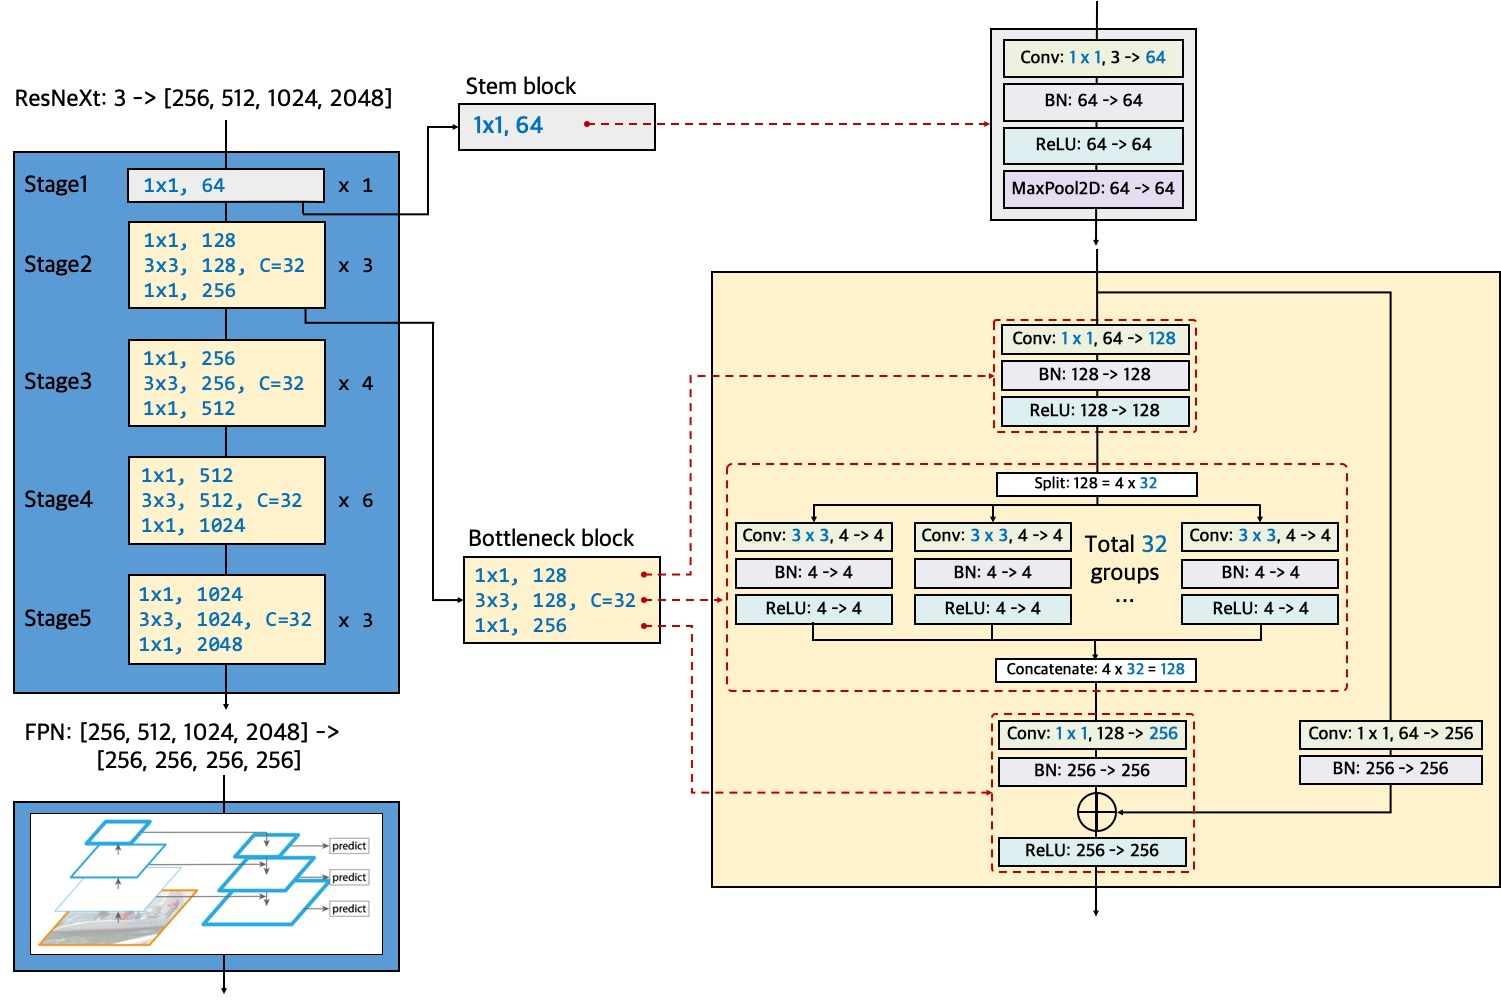
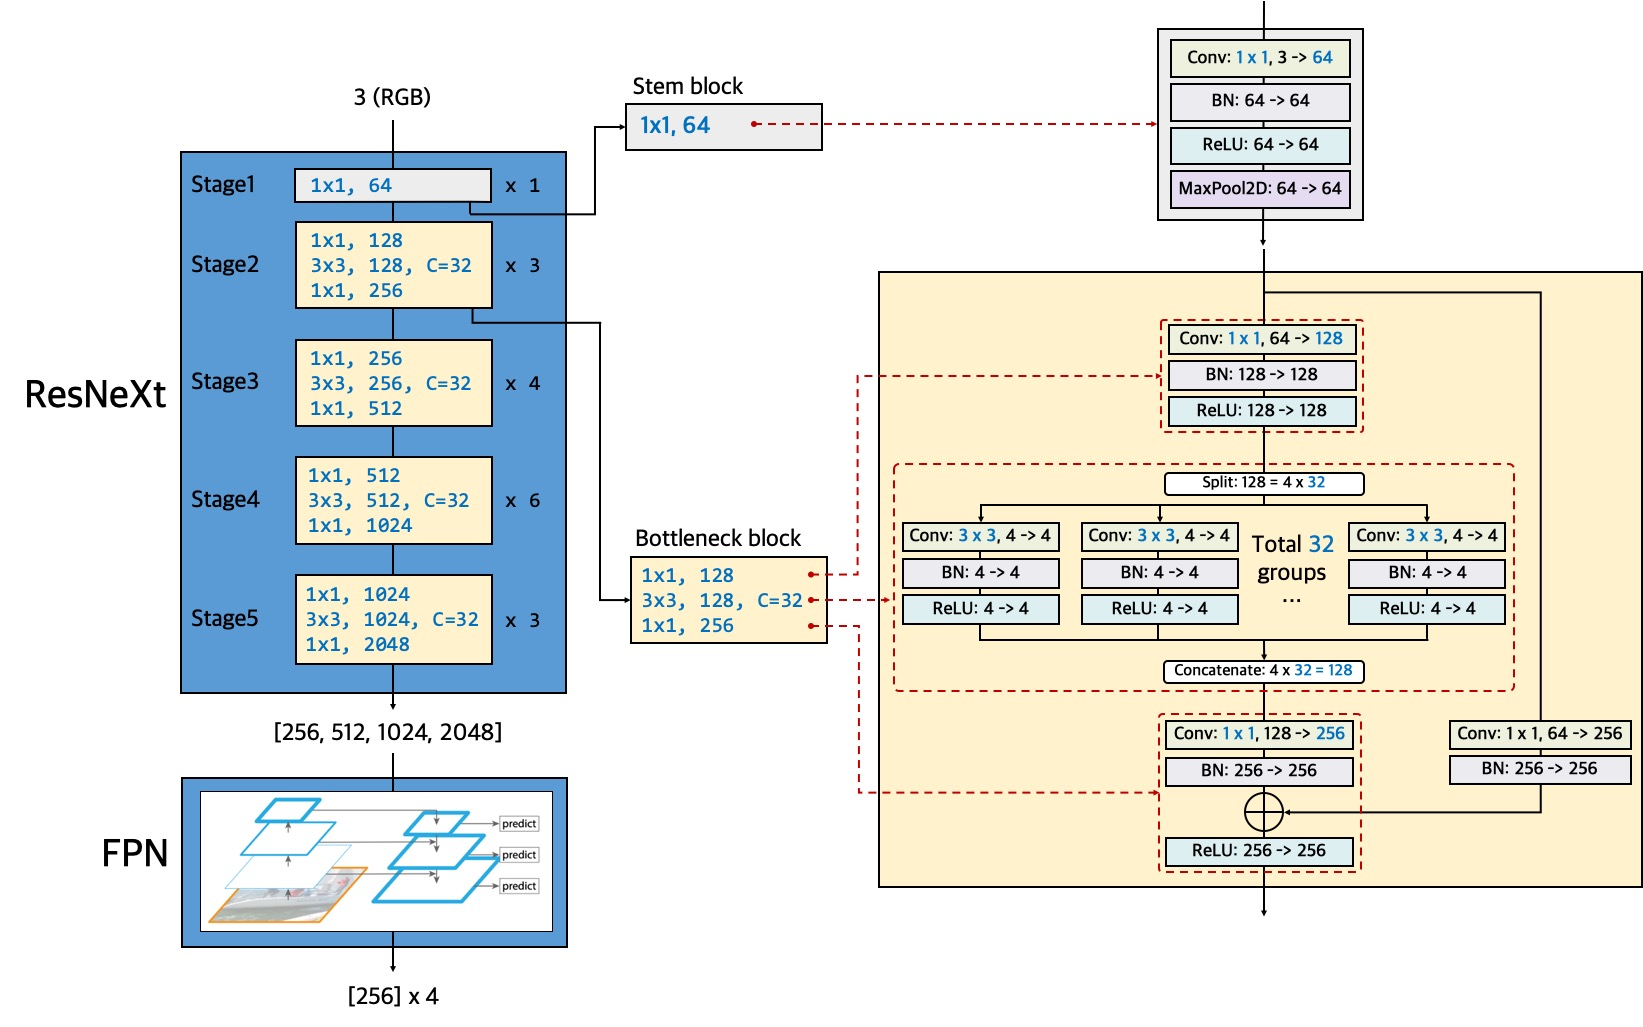
update architecutre figures

diff --git a/index.html b/index.html
@@ -306,20 +306,34 @@
 
             <h4 id="archit_resnext">1. ResNeXt-FPN</h4>
             <a data-fancybox="gallery" href="figs/archit/resnext_fpn.jpg">
-                <img style="width: 85%;
+                <img style="width: 90%;
                 margin-left: auto;
-                margin-right: -13%; display: block;" src="figs/archit/resnext_fpn.jpg" alt='missing' />
+                margin-right: -10%; display: block;" src="figs/archit/resnext_fpn.jpg" alt='missing' />
                 </a>
 
             <h4 id="archit_class">2. Class Head</h4>
             <a data-fancybox="gallery" href="figs/archit/class_head.jpg">
-                <img style="width: 35%;
-                margin-left: 23%; display: block;" src="figs/archit/class_head.jpg" alt='missing' />
+                <img style="width: 40%;
+                margin-left: 15%; display: block;" src="figs/archit/class_head.jpg" alt='missing' />
                 </a>
 
             <h4 id="archit_rpn">3. RPN</h4>
+            <a data-fancybox="gallery" href="figs/archit/rpn.jpg">
+                <img style="width: 41%;
+                margin-left: 21%; display: block;" src="figs/archit/rpn.jpg" alt='missing' />
+                </a>
+
             <h4 id="archit_box">4. Box Head</h4>
+            <a data-fancybox="gallery" href="figs/archit/box_head.jpg">
+                <img style="width: 40%;
+                margin-left: 16%; display: block;" src="figs/archit/box_head.jpg" alt='missing' />
+                </a>
+
             <h4 id="archit_mask">5. Mask Head</h4>
+            <a data-fancybox="gallery" href="figs/archit/mask_head.jpg">
+                <img style="width: 35%;
+                margin-left: 18%; display: block;" src="figs/archit/mask_head.jpg" alt='missing' />
+                </a>
         </section>
         <hr />
         <section id="training" class="training">
